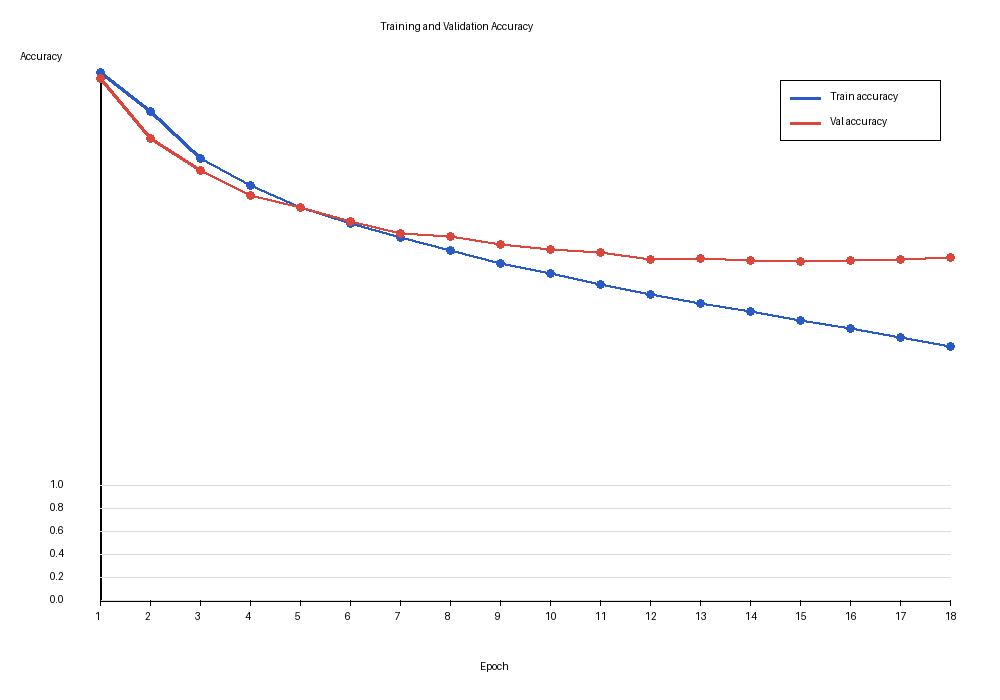
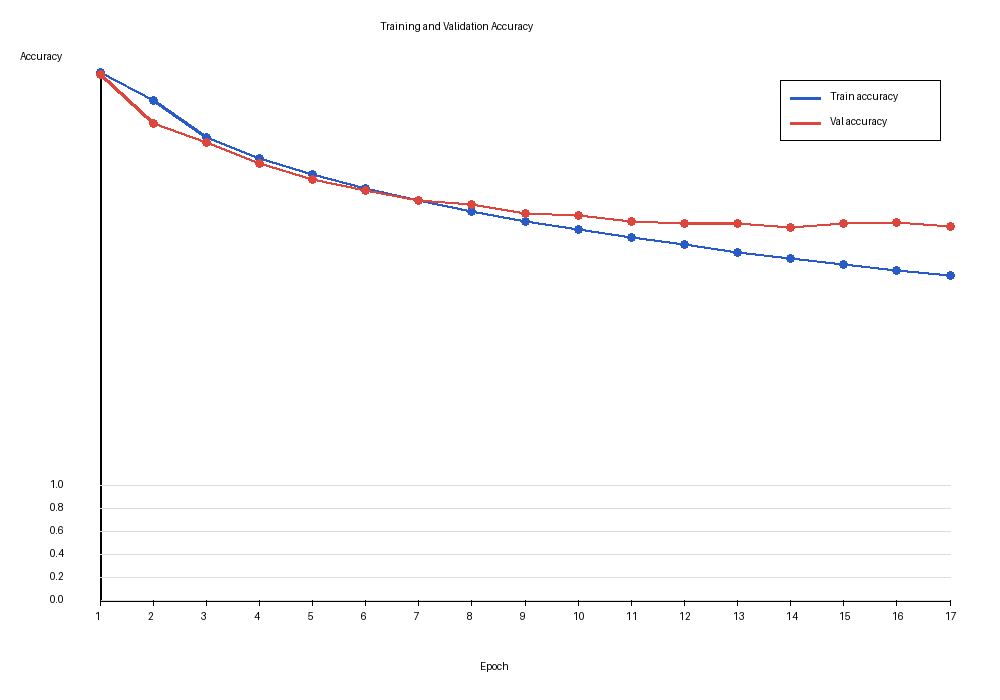
finished mixup

diff --git a/coursework_personal/cw1-pt/task2/train.py b/coursework_personal/cw1-pt/task2/train.py
@@ -1,37 +1,59 @@
 # training script
 # adapted from: https://pytorch.org/tutorials/beginner/blitz/cifar10_tutorial.html
+#
+#
+# Gen AI usage statement:
+#
+# Gen AI was used to create the draw_accuracy_plot function, which is not the main focus of the assignment
+# It was also used to help generate typehints and docstrings for functions, which were after validated by me
+# The main training loop, logic and functions were written by me, however Gen AI was used to help understand
+# the structure of Pytorch, i.e. understanding loss.backward(), requires the criterion function to return
+# a tensor object, rather than just performing the math and returning a scalar. It also helped with guidance
+# regarding implementing CUDA friendly code to speed up training on my machine, such as getting a device parameter
+# and smaller details like non_blocking transfers. 
+
 
 import torch
 import torchvision
 import torchvision.transforms as transforms
 import torch.optim as optim
-import numpy as np
 
 from torch.utils.data import random_split, DataLoader
 from PIL import Image, ImageDraw, ImageFont
 
 from network import Net
 
-from typing import Tuple, Union
+from typing import Tuple
 
-#print(torch.cuda.is_available()) sanity checks it was running on my GPU
+# sanity checks to make sure my GPU was being used
+#print(torch.cuda.is_available())
 #print(torch.cuda.device_count())
 #print(torch.cuda.current_device())
 #print(torch.cuda.device(0))
 #print(torch.cuda.get_device_name(0))
 
-
 def draw_accuracy_plot(
-    train_acc,
-    val_acc,
-    save_path="accuracy_plot.png",
-    width=1000,
-    height=700,
-    title="Training and Validation Accuracy"):
+    train_acc: list[float],
+    val_acc: list[float],
+    save_path: str="accuracy_plot.png",
+    width: int=1000,
+    height: int=700,
+    title: str="Training and Validation Accuracy") -> None:
     """
     draw_accuracy_plot creates a line plot of training and validation accuracy over epochs and saves it as an image using Pillow
     
     This function was primarily created with AI assistance, and is not the main focus of the assignment
+
+    inputs:
+        train_acc (list of float): list of training accuracies for each epoch
+        val_acc (list of float): list of validation accuracies for each epoch
+        save_path (str): path to save the generated plot image
+        width (int): width of the generated image in pixels
+        height (int): height of the generated image in pixels
+        title (str): title of the plot
+    
+    outputs:
+        None (saves the plot as an image to the specified path)
     """
 
     if len(train_acc) != len(val_acc):
@@ -282,6 +304,87 @@ class soft_cross_entropy_loss(torch.nn.Module):
         """
         return self.soft_cross_entropy(outputs, labels)
 
+class MixUp():
+    """
+    MixUp data augmentation technique for training neural networks
+    MixUp creates new training samples by taking convex combinations of pairs of examples and their labels.
+    
+    """
+    def __init__(self, alpha: float = 1.0, num_classes: int = None):
+        """
+        Initialize the MixUp data augmentation technique.
+
+        inputs:
+            alpha (float): The alpha parameter for the Beta distribution used to sample the mixing coefficient.
+            num_classes (int): The number of classes in the classification task, needed for one-hot encoding of labels when applying MixUp to labels.
+        
+        outputs:
+            Mixup object that can be called to apply MixUp augmentation to a batch of inputs and labels
+        """
+
+        if alpha <= 0:
+            raise ValueError("alpha must be greater than 0 for MixUp")
+        
+        self.alpha = alpha
+        self.num_classes = num_classes
+
+    def sample_beta(self) -> torch.Tensor:
+        """
+        sample_beta samples a mixing coefficient lambda from a Beta distribution parameterized by alpha, as recommended in the original MixUp paper
+        use Gamma sampling, since Beta can be sampled by sampling two Gamma distributions and taking the ratio
+        
+        Finding more primitive methods to replace torch.distributions.Beta or .Gamma become harder, and need specialised algorithms
+        or rejection sampling.
+
+        inputs: None
+
+        outputs: lam (torch.Tensor) - a mixing coefficient sampled from the Beta distribution, constrained to be in [0.5, 1] to avoid too much mixing
+
+        """
+        gamma1 = torch.distributions.Gamma(self.alpha, 1.0).sample()
+        gamma2 = torch.distributions.Gamma(self.alpha, 1.0).sample()
+
+        lam = gamma1 / (gamma1 + gamma2)
+
+        # ensure lambda is in [0.5, 1] to avoid too much mixing, as recommended in the original MixUp paper
+        # specifically, each image is seen at least once with a weight of 0.5 or more, to preserve some of the original
+        # image information and prevent underfitting
+        return max(lam, 1 - lam) 
+
+    def __call__(self, inputs: torch.Tensor, labels: torch.Tensor) -> Tuple[torch.Tensor, torch.Tensor]:
+        """
+        Apply MixUp augmentation to a batch of inputs and labels.
+
+        inputs:
+            inputs (torch.Tensor): A batch of input data, expected to be of shape (batch_size, channels, height, width)
+            labels (torch.Tensor): A batch of labels, expected to be of shape (batch_size,)
+
+        outputs:
+            inputs (torch.Tensor): A batch of mixed input data, expected to be of shape (batch_size, channels, height, width)
+            labels (torch.Tensor): A batch of mixed labels, expected to be of shape (batch_size, num_classes)
+        """
+        batch_size = inputs.size(0)
+
+        if batch_size < 2:
+            # cannot apply MixUp to a batch of size 1, so just return the original inputs and labels
+            return inputs, labels
+
+        if labels.shape[-1] == 1: # if labels are not one-hot encoded, we need to convert them to one-hot encoding before mixing
+            if self.num_classes:
+                labels = to_one_hot(labels, self.num_classes)
+            else:
+                raise ValueError("num_classes must be specified for MixUp when labels are not already one-hot encoded")
+
+        lambda_param = self.sample_beta() # sample a lambda for each example in the batch
+        permutation = torch.randperm(batch_size) # generate a random permutation of the batch indices to mix
+
+
+        mixed_inputs = lambda_param * inputs + (1 - lambda_param) * inputs[permutation] # mix the inputs according to the permutation and lambda
+        mixed_labels = lambda_param * labels + (1 - lambda_param) * labels[permutation] # mix the labels according to the same permutation and lambda
+
+        return mixed_inputs, mixed_labels
+
+
 def config_cuda() -> Tuple[torch.device, bool]:
     """
     Helper function which checks if CUDA is available and returns the appropriate device and a boolean flag for use_cuda,
@@ -335,6 +438,7 @@ def train_epoch(net: Net,
                 train_loader: DataLoader, 
                 criterion: torch.nn.CrossEntropyLoss, 
                 optimizer: optim.SGD, 
+                mixup: MixUp,
                 device: torch.device, 
                 use_cuda: bool) -> float:
     """
@@ -344,6 +448,7 @@ def train_epoch(net: Net,
             train_loader (DataLoader)
             criterion (torch.nn.CrossEntropyLoss)
             optimizer (optim.SGD)
+            mixup (MixUp)
             device (torch.device)
             use_cuda (bool)
 
@@ -355,14 +460,18 @@ def train_epoch(net: Net,
     training_loss = 0.0
     n_iter = 0
     for data in train_loader: # train_loader is an iterable itself
+        
         # get the inputs; data is a list of [inputs, labels]
         inputs, labels = data
+        inputs, labels = mixup(inputs=inputs, labels=labels) # apply MixUp augmentation to the inputs and labels
+
         inputs, labels = inputs.to(device, non_blocking=use_cuda), labels.to(device, non_blocking=use_cuda) # for GPU
         # zero the parameter gradients
         optimizer.zero_grad(set_to_none=True) 
 
         # forward + backward + optimize
         outputs = net(inputs)
+        # criterion itself performs label smoothing if provided as an argument to the instance
         loss = criterion(outputs, labels)
         loss.backward()
         optimizer.step()
@@ -416,6 +525,7 @@ def train_model(epochs: int,
                 net: Net, 
                 criterion: torch.nn.CrossEntropyLoss, 
                 optimizer: optim.SGD, 
+                mixup: MixUp,
                 device: torch.device, 
                 use_cuda: bool) -> Tuple[list, list]:
     """
@@ -430,6 +540,7 @@ def train_model(epochs: int,
             net (Net)
             criterion (torch.nn.CrossEntropyLoss)
             optimizer (optim.SGD)
+            mixup (MixUp)
             device (torch.device)
             use_cuda (bool)
 
@@ -448,7 +559,7 @@ def train_model(epochs: int,
     for epoch in range(epochs):  # loop over the dataset multiple times
         print(f"Epoch {epoch+1}/{epochs}")
 
-        training_loss = train_epoch(net, train_loader, criterion, optimizer, device, use_cuda)
+        training_loss = train_epoch(net, train_loader, criterion, optimizer, mixup, device, use_cuda)
         train_loss.append(training_loss)
 
         validate_loss = validate_epoch(net, val_loader, criterion, device, use_cuda)
@@ -473,19 +584,29 @@ if __name__ == '__main__':
     """
 
     batch_size = 128
-    epochs = 100
-    patience = 3
-    smoothing_factor = 0.1
+    epochs = 100 
+    patience = 3 # for early stopping, if validation loss does not improve for this many epochs, stop training
+
+    learning_rate = 0.01 # for SGD
+    momentum = 0.9 # for SGD
+
+    smoothing_factor = 0.1 # for label smoothing
+    alpha = 0.4 # for mixup
 
     device, use_cuda = config_cuda()
     train_loader, val_loader, n_classes = make_dataloaders(batch_size, use_cuda)
     
     net = Net().to(device)
-    ## loss and optimiser
-    criterion = soft_cross_entropy_loss(n_classes, smoothing_factor)
-    optimizer = optim.SGD(net.parameters(), lr=0.01, momentum=0.9)    
+
     
-    train_loss, val_loss = train_model(epochs, patience, train_loader, val_loader, net, criterion, optimizer, device, use_cuda)
+    # custom mixup implementation, with specified alpha and number of classes for one-hot encoding
+    mixup = MixUp(alpha=alpha, num_classes=n_classes) # example of how to initialize MixUp, not currently used in training loop but can be easily integrated by applying it to the inputs and labels in the train_epoch function before the forward pass
+    ## loss and optimiser
+    # Custom soft_cross_entropy_loss function, also implements label smoothing with given smoothing factor
+    criterion = soft_cross_entropy_loss(n_classes, smoothing_factor)
+    optimizer = optim.SGD(net.parameters(), lr=learning_rate, momentum=momentum)    
+    
+    train_loss, val_loss = train_model(epochs, patience, train_loader, val_loader, net, criterion, optimizer, mixup, device, use_cuda)
 
     print('Training done.')
 
